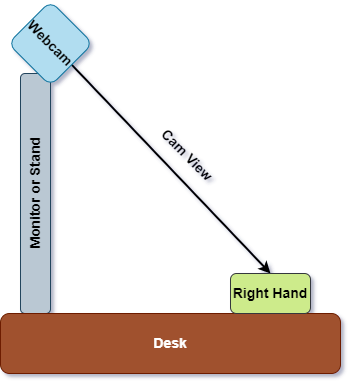
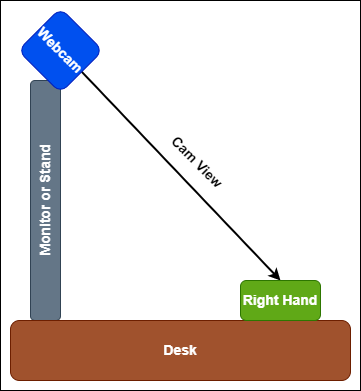
Updated instructions
Updated readme to provide clarity. New camera diagram has a solid white background and higher contrast colors.

diff --git a/README.md b/README.md
@@ -1,49 +1,65 @@
 # Keyless Keyboard
 
 ## Data Collection Tool
-This tool allows users to generate sample data for the ML model that detects keyboard clicks to learn from.
+The goal of this project is to interpret finger taps as keyboard entries. Different finger tap combinations will result in different keystrokes. The tool will cycle through all possible combinations of finger-taps and ask you to record yourself performing that tap. The data captured by this tool will be used to train machine learning models that can identify fingers tapping.
 
 ### Tool Setup
-First, you'll need a copy of the tool locally. Either:
-- Clone the repo to your local machine.
-- Download the latest [release](https://github.com/j-confusatron/tap_keyboard/releases).
-
-You'll also need a copy of Anaconda. Anaconda allows you to manage virtual Python environments. [Anaconda](https://www.anaconda.com/)
-
-With a local copy of the tool and Anaconda installed, now we can create a virtual environment. Open a CLI at  the project root (same directory level as \requirements.txt and \config). Then enter the following commands:
-```
-conda create --name keyless_keyboard python=3.9
-conda activate keyless_keyboard
-pip install -r requirements.txt
-```
+1. Prerequisites: [Anaconda](https://www.anaconda.com/)
+2. Clone this repo or download the latest [release](https://github.com/j-confusatron/tap_keyboard/releases).
+3. Create a virtual environment. Open a CLI at the project root. Then enter:
+  ```
+  conda create --name keyless_keyboard python=3.9
+  conda activate keyless_keyboard
+  pip install -r requirements.txt
+  ```
 
 ### Using the Tool
+
+#### Preparing Your Space
 This tool requires an available webcam. The current goal is to collect a very targeted dataset. This means the webcam will need to be in a specific position. Position your webcam above your desk, looking down on the area where your hand will be. If you have your webcam on your monitor, simply angling it down to look at the desk area in front of your monitor will work.
 
 ![diagram depicting a webcam on top of a monitor, angled down to view a hand resting on a desk](https://raw.githubusercontent.com/j-confusatron/tap_keyboard/main/cam_diagram.png "Webcam setup diagram")
 
-You can then launch the data collection tool. Open up a CLI and activate the virtual environment created earlier, then launch the tool.
+#### Launch the Data Collection Tool
+1. Open a CLI the project root.
+2. Activate the keyless_keyboard virtual environment: `conda activate keyless_keyboard`
+3. Launch the tool: `python -m data_collector.collector`
+4. The tool will take a moment to start.
 
-```
-conda activate keyless_keyboard
-python -m data_collector.collector
-```
-
-Wait a moment for the tool to start. Then the main tool window will appear.
+#### Using the Data Collection Tool
 
 ![Screenshot of the data collection tool. A hand is visible on a desk. Along the top, instructions are provided for a gesture to capture.](https://raw.githubusercontent.com/j-confusatron/tap_keyboard/main/data_collector_sample.png "Data Collection Tool")
 
-The goal of this project is to capture the motion of tapping fingers on a desk. The tool will cycle through all possible combinations of finger-taps and ask you to record yourself performing that tap.
+| UI Element         | Position          | Purpose                                                                          |
+| ------------------ | ----------------- | -------------------------------------------------------------------------------- |
+| Grey Circle        | top left          | Grey indicates app is not recording. Red indicates app is recording              |
+| Red X's, Green O's | top left          | Current sample. From left: thumb, index, middle, ring, pinky. O: tap; X: neutral |
+| Pink Box           | main viewing area | Box and label of hand identified by app                                          |
 
 At the top of the screen is a grey circle, followed by a series of X's and O's. The grey circle indicates that the tool is not currently recording. When the tool is recording, the circle turns red. The X's and O's indicate which fingers to tap. A red X indicates a finger should remain neutral, hovering an inch or so above the desk. A green O indicates that finger should tap on the desk. From left to right, the X's and O's indicate: thumb, index, middle, ring, pinky. Multiple indicated fingers should tap simultaneously. If only red X's are displayed, leave your hand in a neutral position about 1 inch above your desk for about 1 second while recording.
 
-Only the right hand may be used to record motion.
+Only the **right hand** may be used to record motion.
+
+**Steps**
+1. Open Data Collection Tool
+2. Observe the current sample (X's and O's)
+3. Prepare to tap the fingers designated by O's
+4. Press SPACE to start recording
+5. Tap the indicated fingers
+6. Press SPACE to stop recording
+7. The tool will write the sample to disk and cycle to the next sample.
 
 When you are ready to record, press the **SPACE** key to begin. Perform the tapping motion indicated. Then press **SPACE** again to stop recording. The data of your hand motion will be recorded and printed out on the CLI. The tool will then cycle to the next tap combination.
 
 If you have made a mistake and wish to try again, press **BACKSPACE** to cycle back an entry. You may cycle back as many iterations as you wish. You may also press **BACKSPACE** while recording to cancel the recording.
 
 When you are done collecting data, press **ESC** to exit the tool. You can then email me the data files generated during your testing. Message me on Git if you need my contact information.
+
+| Key       | Purpose                                                                          |
+| --------- | -------------------------------------------------------------------------------- |
+| SPACE     | Start / Stop recording a sample                                                  |
+| BACKSPACE | If app is recording, cancel current recording. Else, delete last recorded sample |
+| ESC       | Exit application                                                                 |
 
 ### About the Data Collected
 Every time the tool starts, an empty data file is created: `data/data_1234567890.json`. The data collected while recording finger tapping motions is stored in these files. The number at the end of the file name is the timestamp of when the tool was initiated.
@@ -55,4 +71,4 @@ Each sample recorded contains the following elements:
   - cent: the center coordinate of the hand.
   - box: the coordinates of the bounding box drawn around the hand.
 
-I encourage everyone using this tool to look over the data and get comfortable with it. No machine or personal data is captured by this tool. No screenshots are captured by this tool.
+I encourage everyone using this tool to look over the data. No machine or personal data is captured by this tool. No screenshots are captured by this tool.
